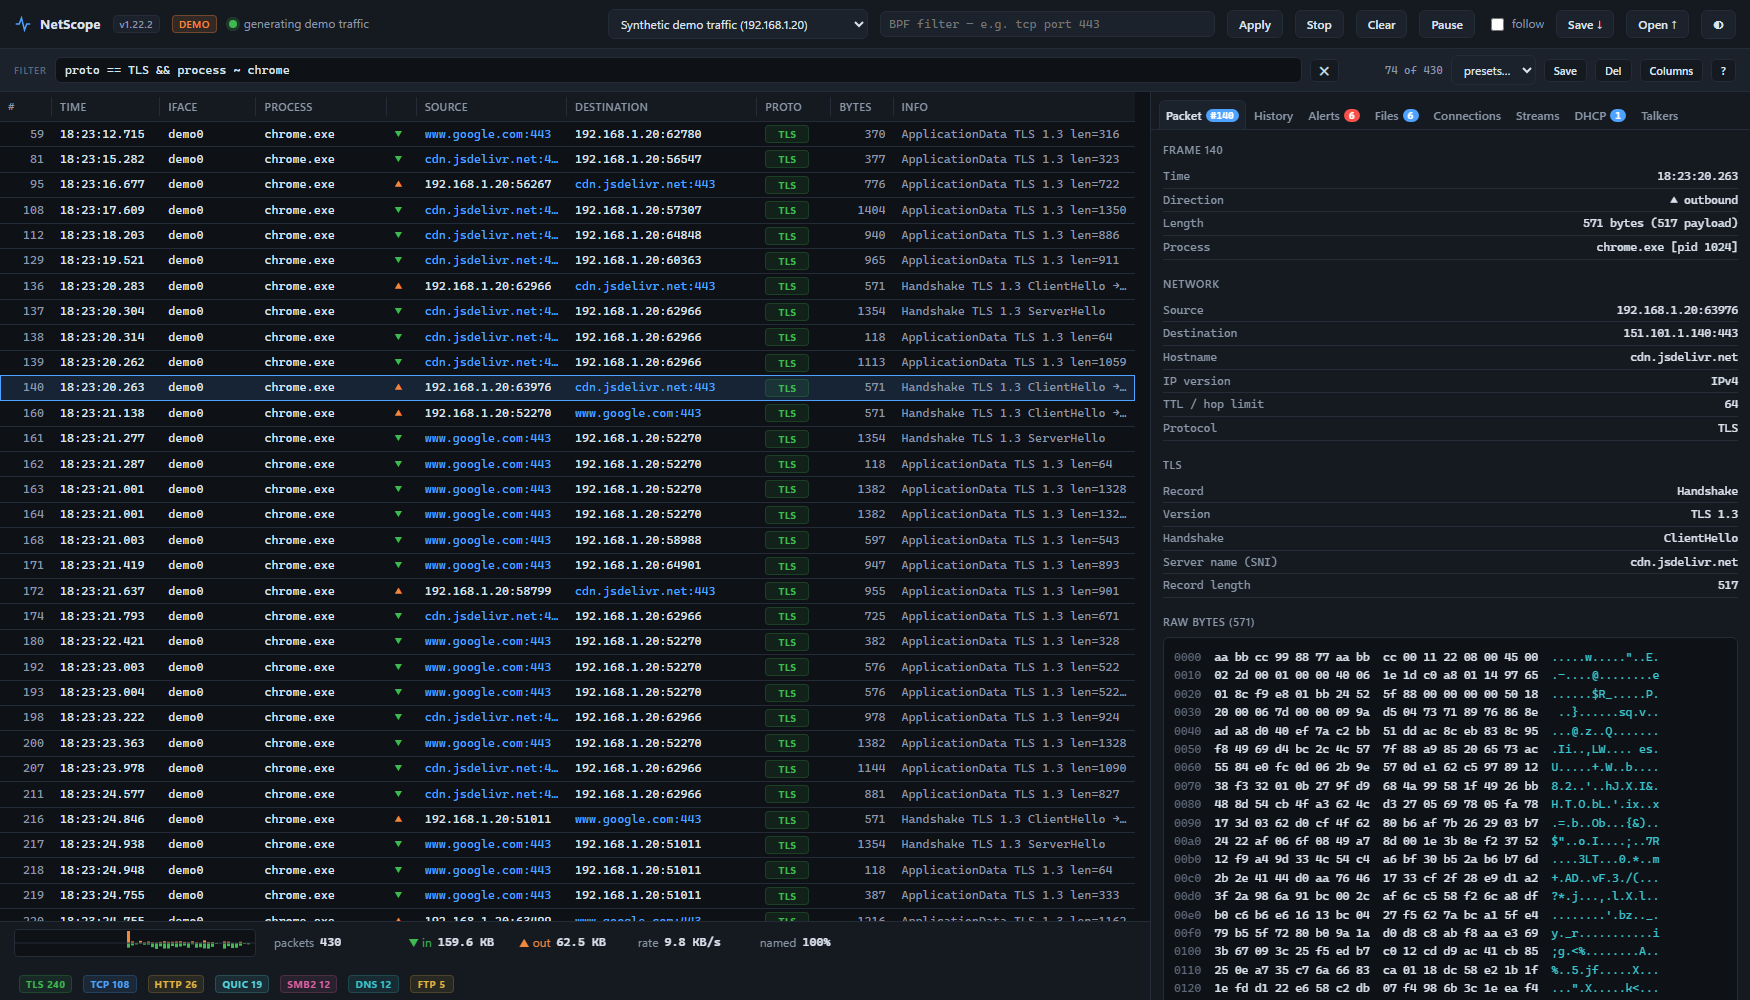
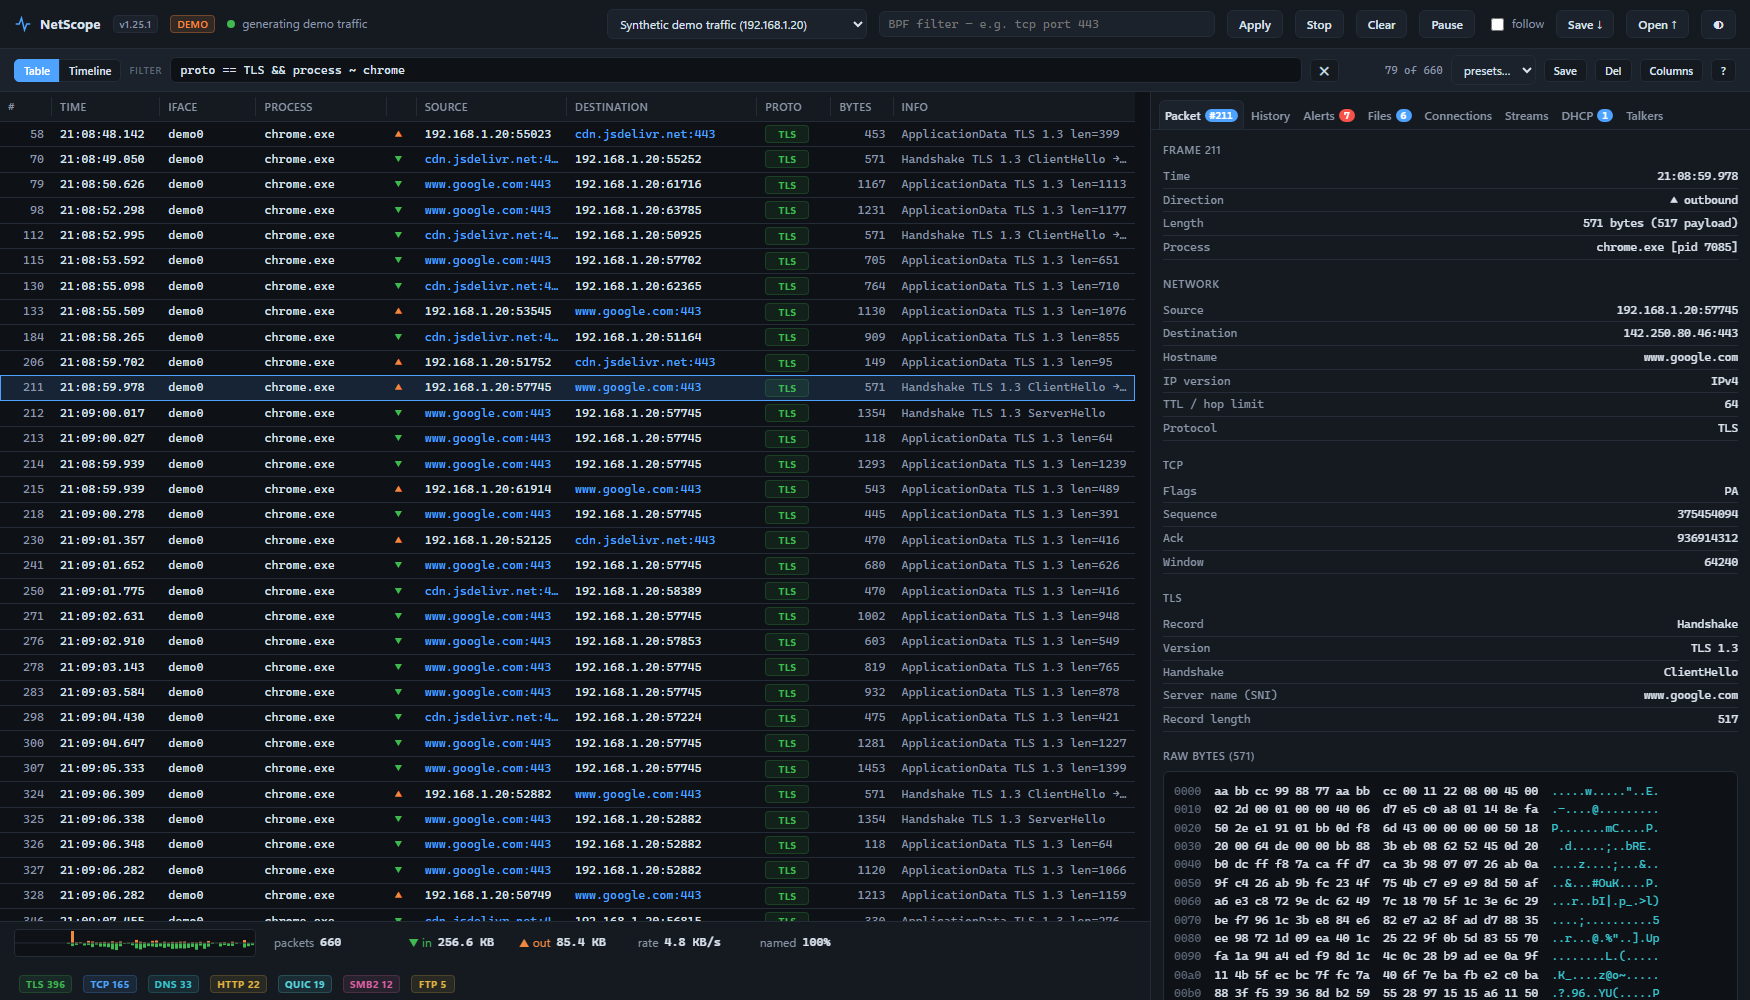
Retake the README screenshots on 1.25.1 and add one of the Timeline
The packet table and History shots dated from 1.22.2, before the
Table/Timeline switch in the filter bar. Same framing, demo traffic and
synthetic 30-day history as before. The new Timeline shot shows 5 minutes
of programs with AgentSvc.exe's 20-second check-in marked and hovered,
cropped to the lanes.

diff --git a/README.md b/README.md
@@ -22,6 +22,11 @@ The live packet table, with columns and filter presets:
 
 ![Packet table](screenshot.png)
 
+The Timeline, one lane per program, with a program that checks in every 20
+seconds picked out:
+
+![Timeline](screenshot-timeline.png)
+
 The History tab, showing traffic over time by program:
 
 ![History tab](screenshot-history.png)
